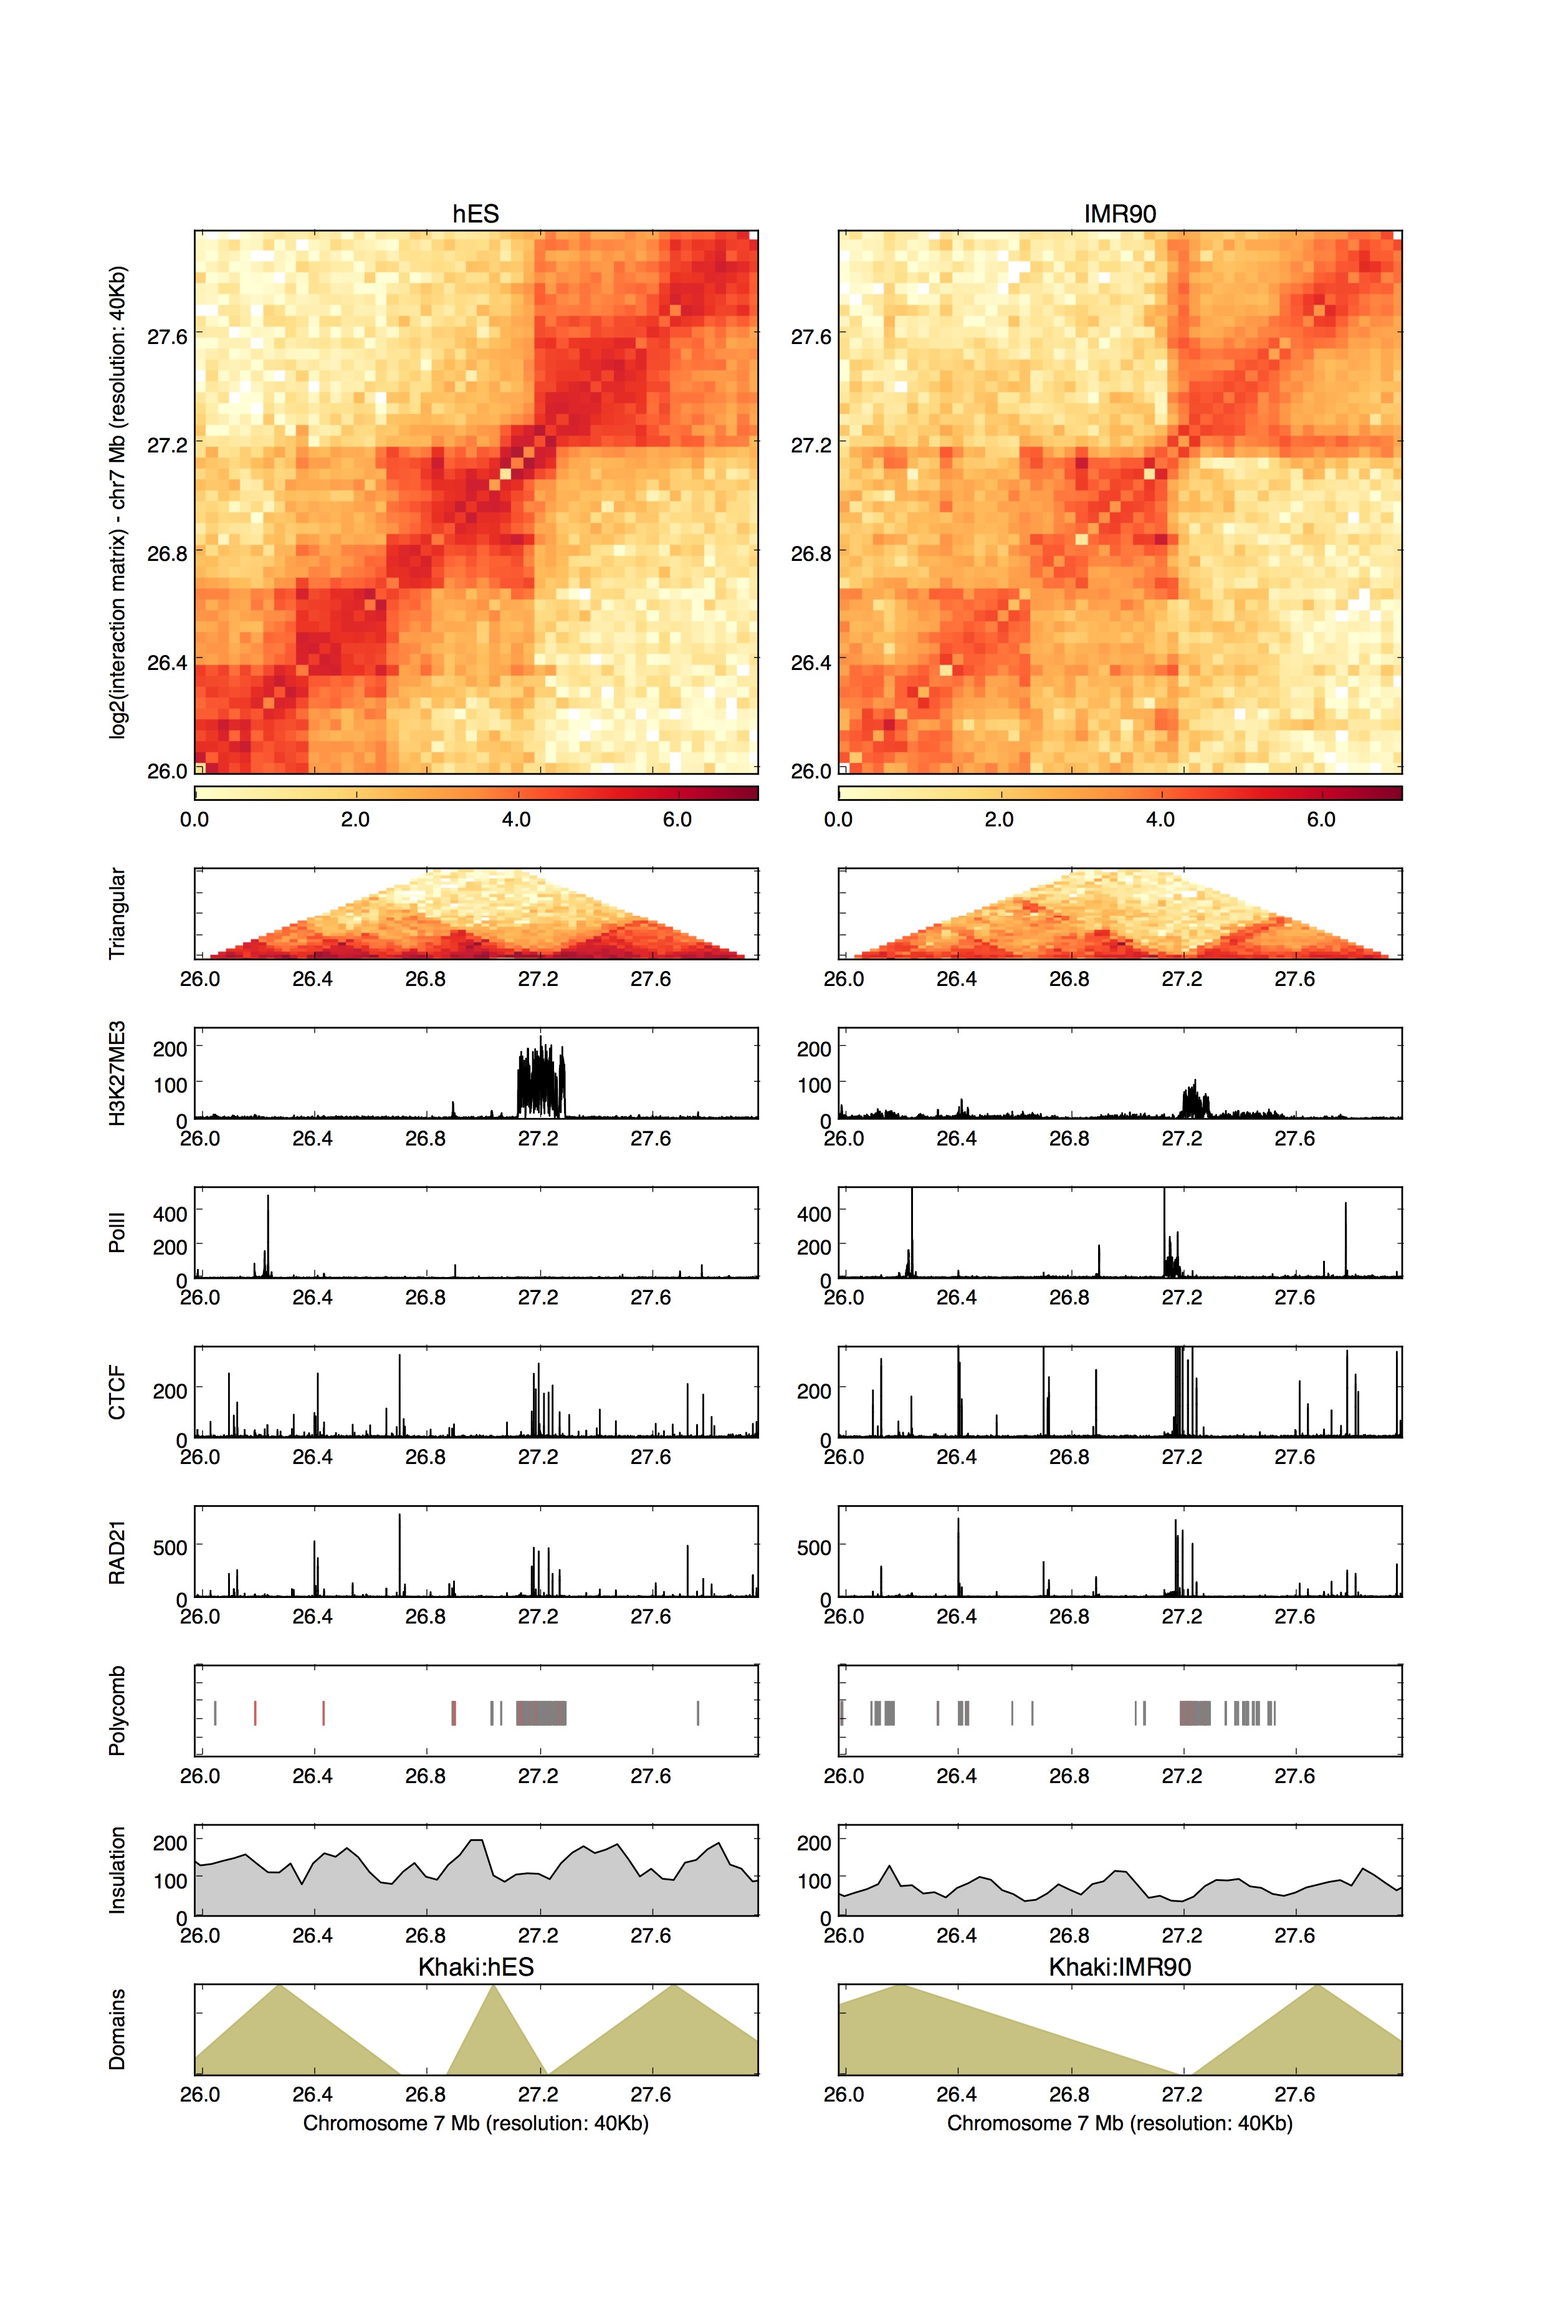
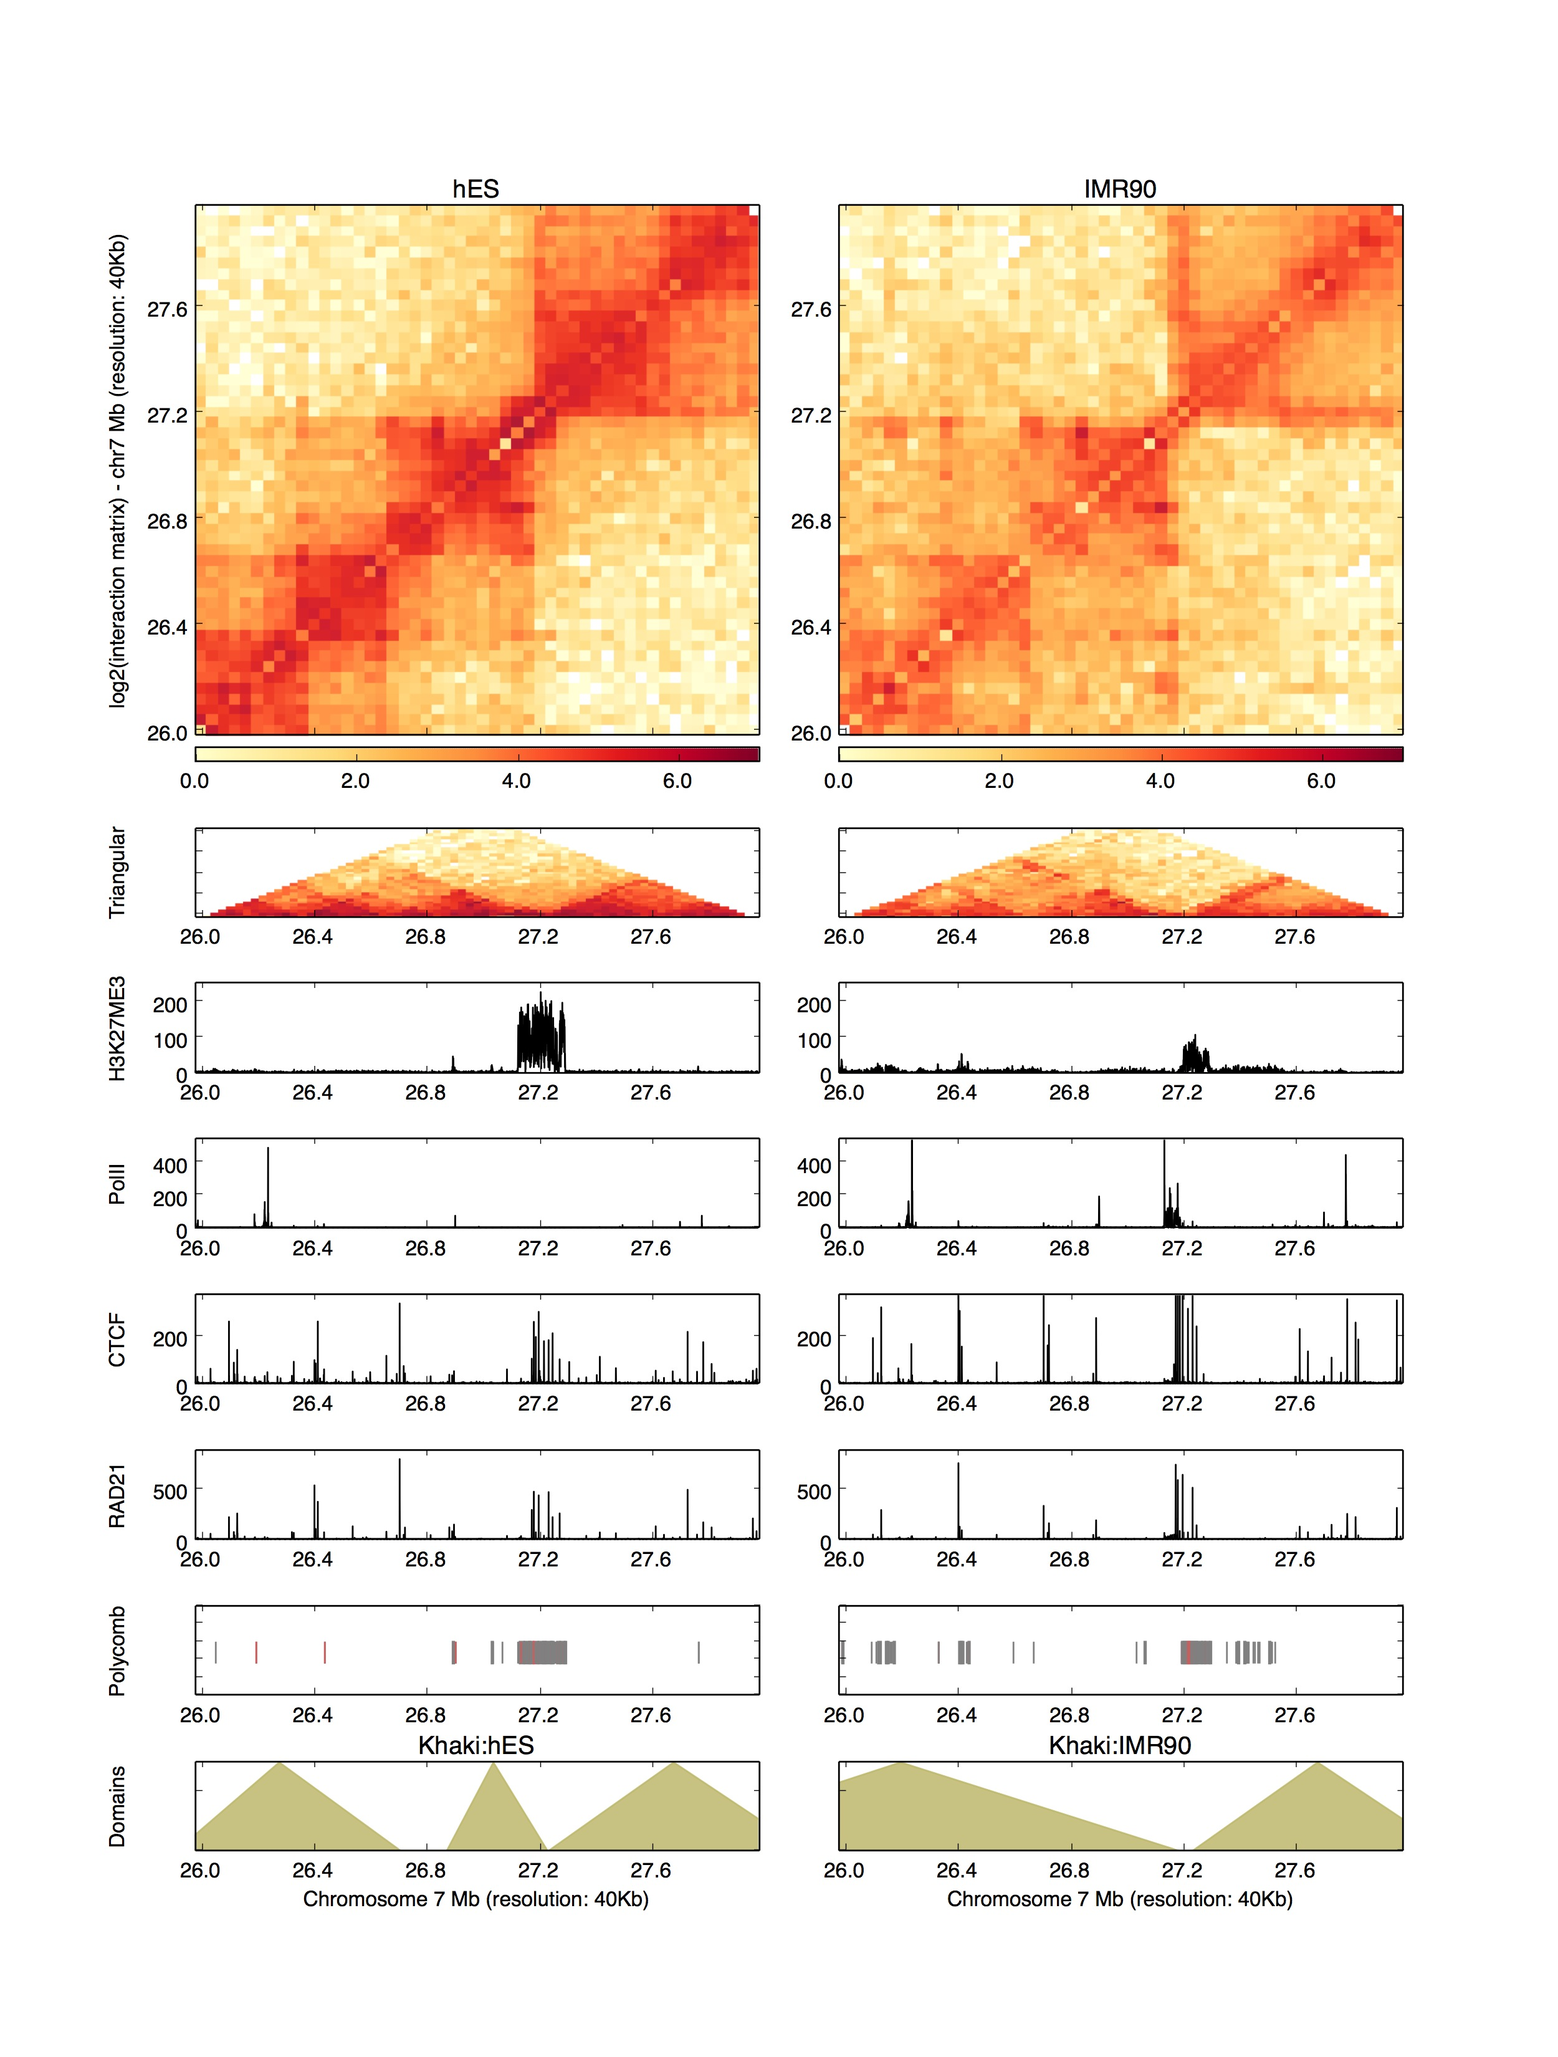
ReadME

diff --git a/README.md b/README.md
@@ -143,7 +143,7 @@ _Color of triangles specify interaction frequency in a given TAD._
 
 _TADs identified by Dixon et al. can be plotted with -pptd parameter._	
 	
-	python HiCPlotter.py -f data/HiC/Human/hES-nij.chr21.2 -n hES -chr chr21 -r 40000 -o default2 -ptd 1 -pptd 1 -s 600 -e 900 -fh 0 -w 8 -tr 10
+	python HiCPlotter.py -f data/HiC/Human/hES-nij.chr21.2 -n hES -chr chr21 -r 40000 -o default2 -ptd 1 -pptd 1 -s 600 -e 900 -fh 0 -w 8 -tr 10 -pi 1
 
 <figure>
   <figcaption align="middle">**Chromosome interactions at chromosome 21 in human ES cells**</figcaption>
